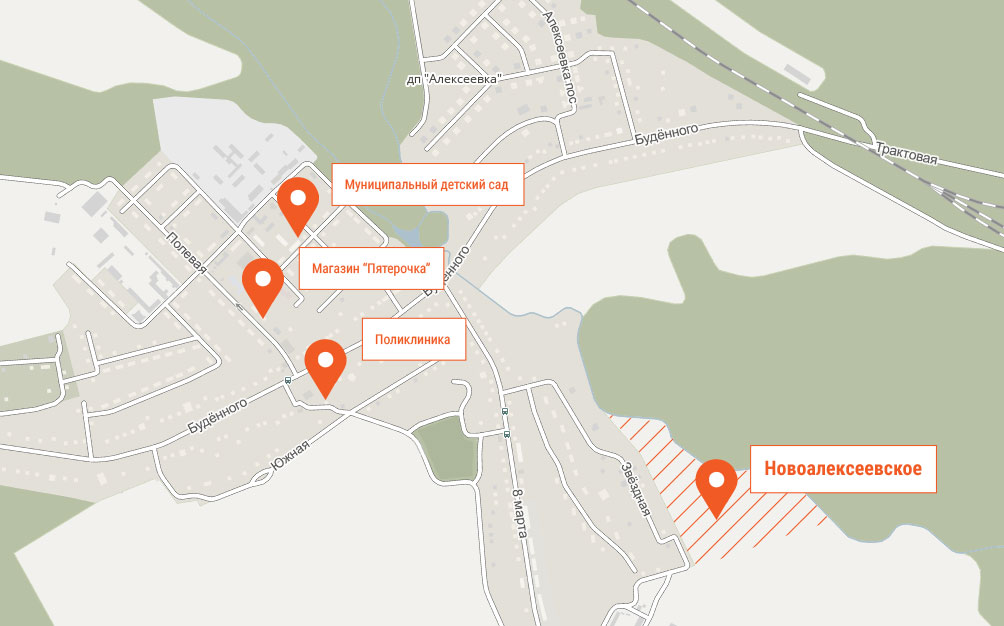
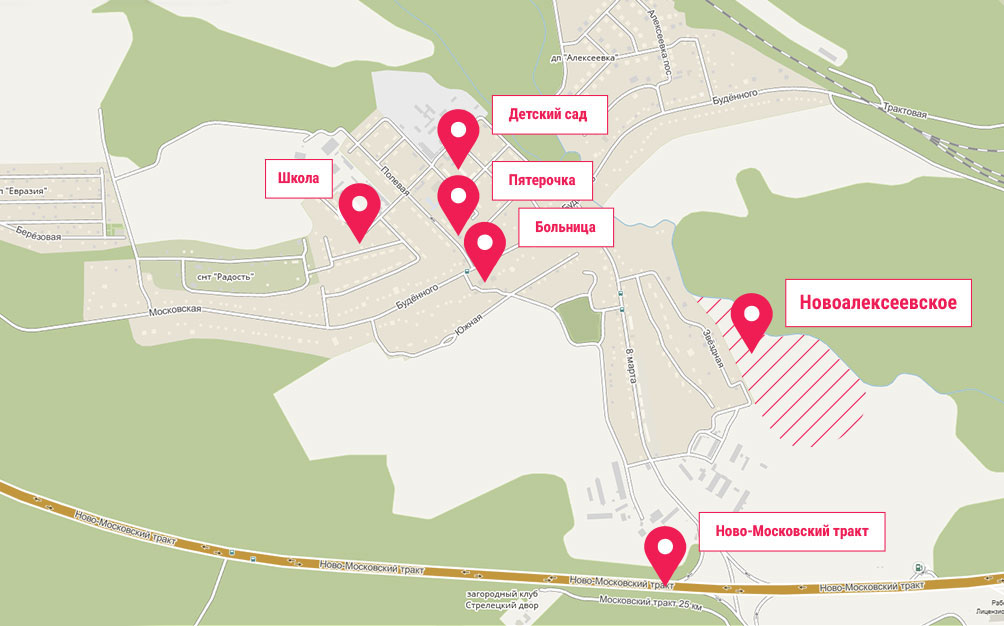
v 1.5 improved maps

diff --git a/index.html b/index.html
@@ -76,7 +76,7 @@
         <div class="container">
             <div class="row">
                 <div class="col">
-                    <img src="img/genplan.jpg" alt="" class="genplan">
+                    <img src="img/genplan.gif" alt="" class="genplan">
                 </div>
             </div>
             <br>
@@ -152,6 +152,12 @@
         </div>
         <br>
         <div class="container">
+            <div class="row">
+                <div class="col">
+                    <img src="img/map_infrastructure-2.jpg" alt="" class="genplan">
+                </div>
+            </div>
+            <br>
             <div class="row">
                 <div class="col">
                     <img src="img/map_infrastructure.jpg" alt="" class="genplan">

diff --git a/css/style.css b/css/style.css
@@ -110,6 +110,7 @@ header .left-block .title {
     line-height: normal;
     margin-bottom: 30px;
     border-radius: 3px;
+    text-shadow: 2px 2px #000;
 }
 header .left-block .description {
     margin-bottom: 30px;
@@ -564,9 +565,7 @@ div#load_screen{
         margin-top: 73px;
         font-size: 63px;
     }
-    header .left-block h1.title {
-        text-shadow: 2px 2px #000;
-    }
+
 }
 
 @media (min-width: 1200px) {
